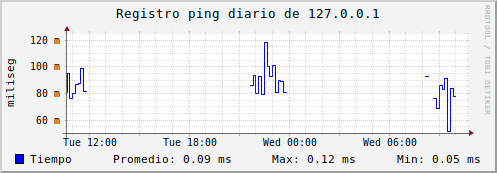
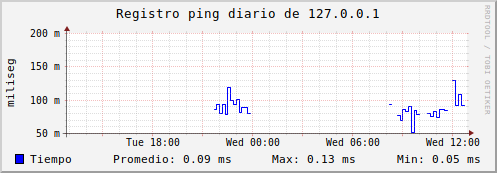
Dejando esto listo

Changed region(s): [[0.0604, 0.1445, 0.9658, 0.8671], [0.664, 0.896, 0.6942, 0.9538], [0.0604, 0.3468, 0.0905, 0.4046]]

diff --git a/ping-poller/ping-poller.py b/ping-poller/ping-poller.py
@@ -1,6 +1,7 @@
 from rrdtool import create as rrd_create
 from rrdtool import update as rrd_update
 from rrdtool import fetch as rrd_fetch
+from rrdtool import graph as rrd_graph
 import subprocess
 import sys
 import re
@@ -34,6 +35,37 @@ def crear_base():
                                   "RRA:MAX:0.5:60:24",
                                   "RRA:AVERAGE:0.5:1:60",
                                   "RRA:AVERAGE:0.5:10:144")
+
+
+def graficar():
+    for direccion in DIRECCIONES:
+        archivo_rrd = "{}/{}.rrd".format(RUTA, direccion)
+        titulo = "Ping de {}".format(direccion)
+        nombre_img = "{}/{}-actual.png".format(RUTA, direccion)
+        rrd_graph(nombre_img,
+                  "--vertical-label", "miliseg",
+                  "--start", "-1h",
+                  "--title", titulo,
+                  "DEF:mitiempo={}:tiempo:AVERAGE".format(archivo_rrd),
+                  "LINE1:mitiempo#FF0000:Tiempo",
+                  "GPRINT:mitiempo:AVERAGE:Promedio\: %.3lf ms",
+                  "GPRINT:mitiempo:MAX:Max\: %.3lf ms",
+                  "GPRINT:mitiempo:MIN:Min\: %.3lf ms")
+
+        for intervalo in ['diario']:
+            if intervalo == 'diario':
+                etiqueta = 'd'
+            # print("{} - {}".format(direccion, intervalo))
+            nombre_img = "{}/{}-{}.png".format(RUTA, direccion, intervalo)
+            titulo = "Registro ping {} de {}".format(intervalo, direccion)
+            rrd_graph(nombre_img, "--start", "-1{}".format(etiqueta),
+                      "--vertical-label=miliseg",
+                      "--title", titulo,
+                      "DEF:mi_tiempo={}:tiempo:AVERAGE".format(archivo_rrd),
+                      "LINE1:mi_tiempo#0000FF:Tiempo",
+                      "GPRINT:mi_tiempo:AVERAGE:Promedio\: %.2lf ms",
+                      "GPRINT:mi_tiempo:MAX:Max\: %.2lf ms",
+                      "GPRINT:mi_tiempo:MIN:Min\: %.2lf ms")
 
 
 def enviar_email(direccion):
@@ -77,3 +109,4 @@ def actualizacion():
 
 crear_base()
 actualizacion()
+graficar()
